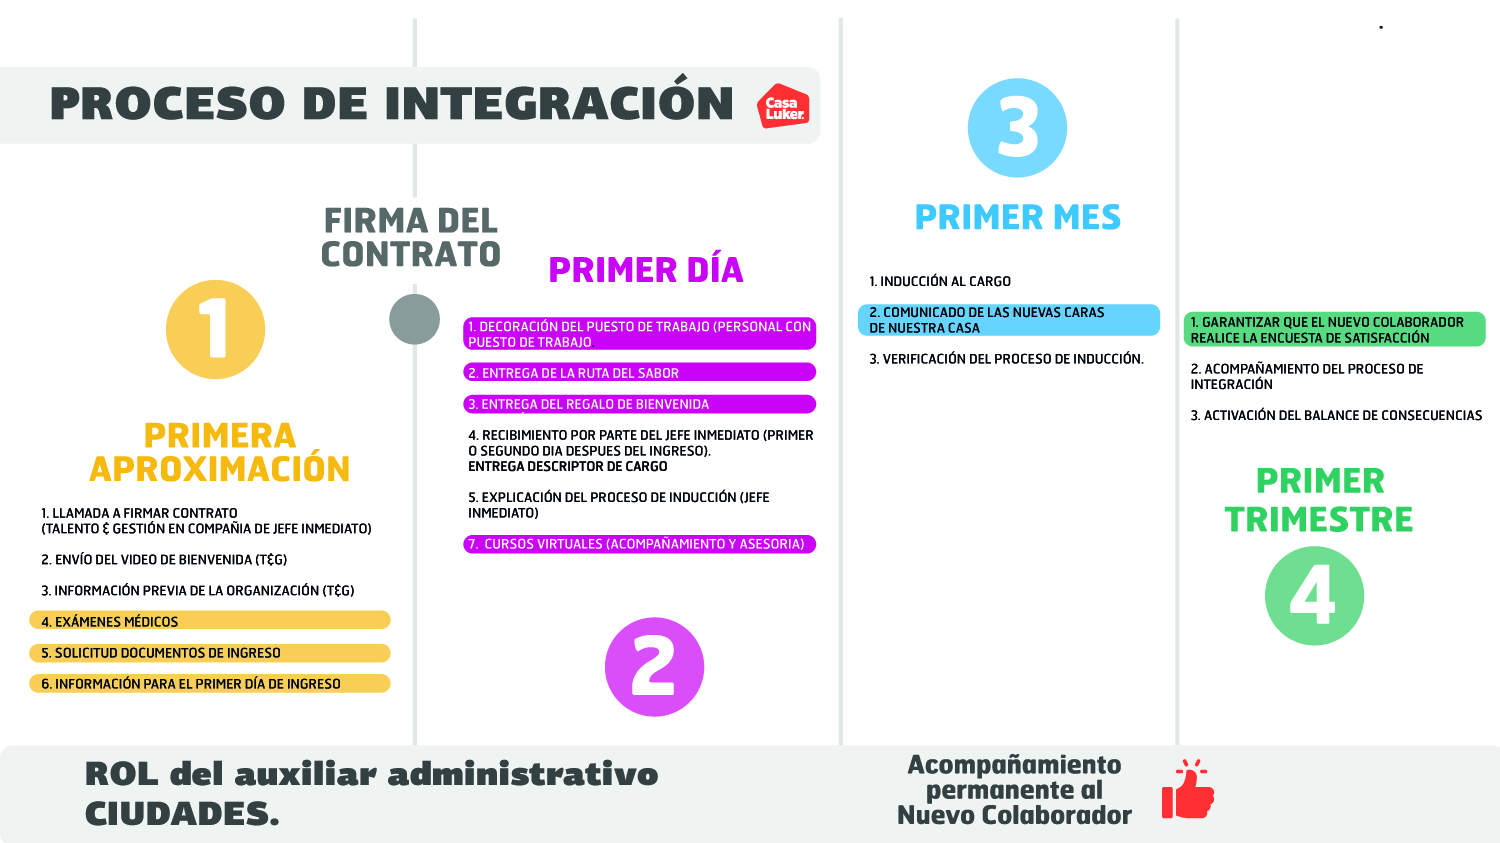
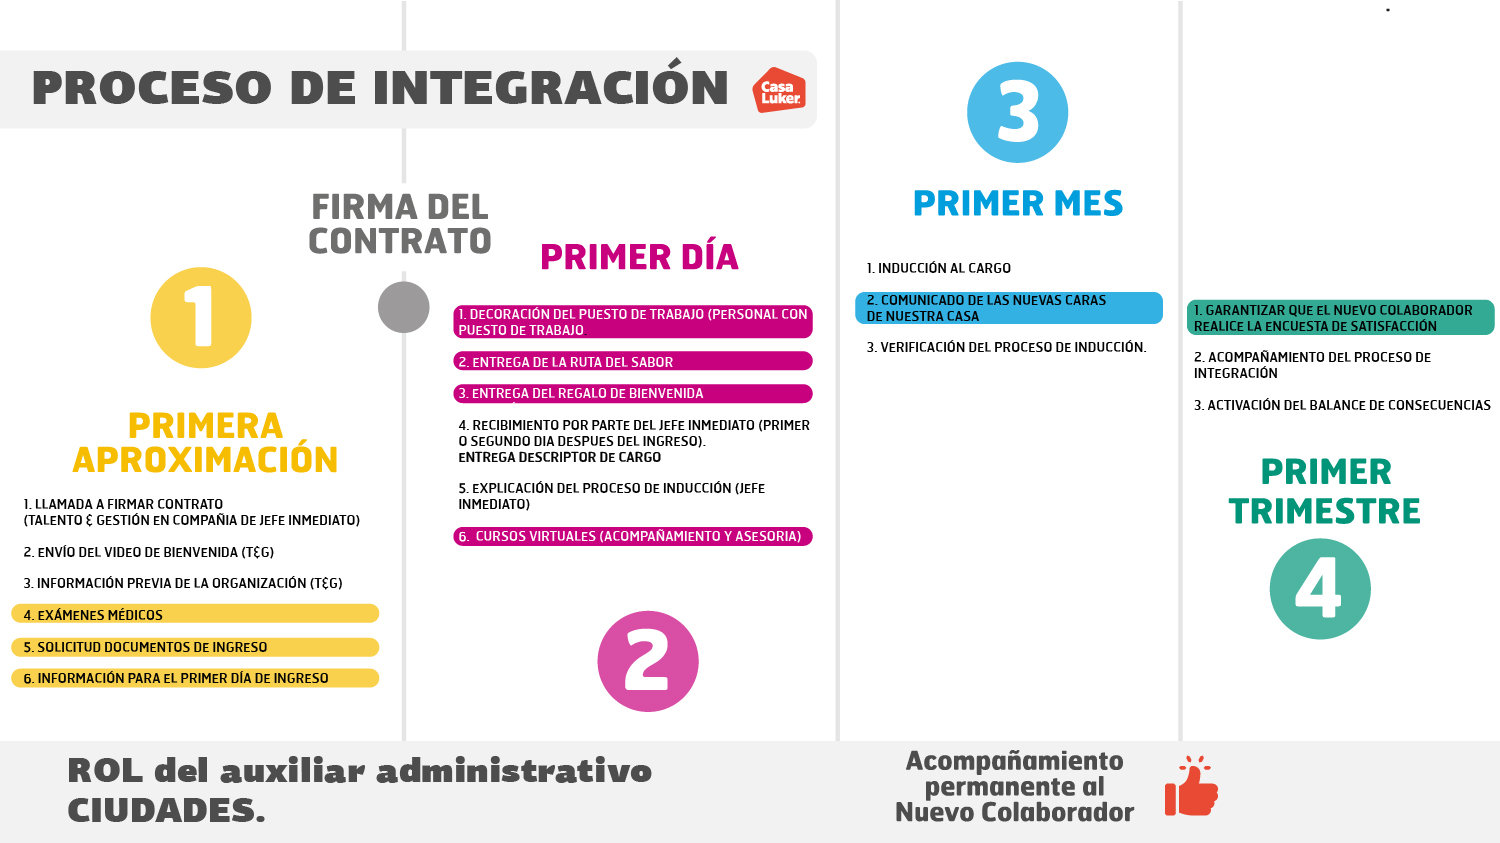
Cambia ubicacion de @templates y añade caja herramientas de @talento - Ubica los @templates en la carpeta shared. Esto para acceder a ellos desde el modulo home y no solo del modulo processes - Añade caja de herramientas faltantes en el componente @talento del modulo home - Agrega imagenes adicional

diff --git a/src/main/webapp/app/home/talento/talento.component.ts b/src/main/webapp/app/home/talento/talento.component.ts
@@ -8,6 +8,31 @@ import { Location } from '@angular/common';
 })
 export class TalentoComponent implements OnInit, AfterViewInit, OnDestroy {
   public processClasses: any;
+  elementsCajaHerramientas = {
+    first: [ // Elementos de la primera columna
+      {
+        subtitle: '',
+        items: [
+          { title: 'Grupo 1 Módulo 2 Definiendo el norte', url: 'https://www.w3.org/WAI/ER/tests/xhtml/testfiles/resources/pdf/dummy.pdf' },
+          { title: 'Grupo 1 Módulo 3 Conformando al mejor equipo', url: 'https://www.w3.org/WAI/ER/tests/xhtml/testfiles/resources/pdf/dummy.pdf' },
+          { title: 'Grupo 1 Módulo 4 Logrando los mejores resultados', url: 'https://www.w3.org/WAI/ER/tests/xhtml/testfiles/resources/pdf/dummy.pdf' },
+          { title: 'Grupo 1 Módulo 5 Comprometiendo e integrando a nuestros equipos', url: 'https://www.w3.org/WAI/ER/tests/xhtml/testfiles/resources/pdf/dummy.pdf' },
+          { title: 'Grupo 1 Módulo 6 Gestionar el desempeño y desarrollar a nuestro equipo', url: 'https://www.w3.org/WAI/ER/tests/xhtml/testfiles/resources/pdf/dummy.pdf' },
+          { title: 'Grupo 1 Módulo 7 Maestros que comprometen a sus equipos', url: 'https://www.w3.org/WAI/ER/tests/xhtml/testfiles/resources/pdf/dummy.pdf' }
+        ]
+      }
+    ],
+    second: [
+      {
+        subtitle: '',
+        items: [
+          { title: 'Grupo 2 Módulo 2 Conformando e integrando al mejor equipo', url: 'https://www.w3.org/WAI/ER/tests/xhtml/testfiles/resources/pdf/dummy.pdf' },
+          { title: 'Grupo 2 Módulo 3 Logrando los mejores resultados', url: 'https://www.w3.org/WAI/ER/tests/xhtml/testfiles/resources/pdf/dummy.pdf' },
+          { title: 'Grupo 2 Módulo 4 Maestros que comprometen a sus equipos.', url: 'https://www.w3.org/WAI/ER/tests/xhtml/testfiles/resources/pdf/dummy.pdf' }
+        ]
+      }
+    ]
+  };
 
   constructor(private elementRef: ElementRef,
     private renderer2: Renderer2, private location: Location) { }
@@ -37,7 +62,7 @@ export class TalentoComponent implements OnInit, AfterViewInit, OnDestroy {
   }
 
   /**
-   * Método que válidaría si el usuario puede
+   * Método que validaría si el usuario puede
    * o no ver el botón de caja de herramientas
    */
   canShowCajaHerramientas() {

diff --git a/src/main/webapp/app/processes/processes.module.ts b/src/main/webapp/app/processes/processes.module.ts
@@ -5,8 +5,6 @@ import { PROCESSES_ROUTE } from './processes.route';
 
 import { LukerSharedModule } from 'app/shared/shared.module';
 import { ProcessesComponent } from './processes.component';
-import { TplDefinicionesComponent } from './templates/tpl-definiciones/tpl-definiciones.component';
-import { TplCajaHerramientasComponent } from './templates/tpl-caja-herramientas/tpl-caja-herramientas.component';
 import { VinculacionIntegracionComponent } from './vinculacion-integracion/vinculacion-integracion.component';
 import { VinculacionComponent } from './vinculacion-integracion/vinculacion/vinculacion.component';
 import { IntegracionComponent } from './vinculacion-integracion/integracion/integracion.component';
@@ -23,14 +21,11 @@ import { CompromisoReconoComponent } from './compromiso-recono/compromiso-recono
 import { DefCompromisoReconoComponent } from './compromiso-recono/definiciones/def-compromiso-recono.component';
 import { CierreExitosoComponent } from './cierre-exitoso/cierre-exitoso.component';
 import { DefCierreExitosoComponent } from './cierre-exitoso/definiciones/def-cierre-exitoso.component';
-import { TplContactoComponent } from './templates/tpl-contacto/tpl-contacto.component';
 
 @NgModule({
     imports: [LukerSharedModule, RouterModule.forChild([PROCESSES_ROUTE])],
     declarations: [
         ProcessesComponent,
-        TplDefinicionesComponent,
-        TplCajaHerramientasComponent,
         VinculacionIntegracionComponent,
         VinculacionComponent,
         IntegracionComponent,
@@ -46,8 +41,7 @@ import { TplContactoComponent } from './templates/tpl-contacto/tpl-contacto.comp
         CompromisoReconoComponent,
         DefCompromisoReconoComponent,
         CierreExitosoComponent,
-        DefCierreExitosoComponent,
-        TplContactoComponent
+        DefCierreExitosoComponent
     ]
 })
 export class LukerProcessesModule { }

diff --git a/src/main/webapp/app/shared/shared.module.ts b/src/main/webapp/app/shared/shared.module.ts
@@ -5,13 +5,33 @@ import { NgbDateMomentAdapter } from './util/datepicker-adapter';
 import { LukerSharedLibsModule, LukerSharedCommonModule, JhiLoginModalComponent, HasAnyAuthorityDirective } from './';
 import { MapLukerComponent } from './map-luker/map-luker.component';
 import { UniversidadLogoComponent } from './universidad-logo/universidad-logo.component';
+import { TplDefinicionesComponent } from './templates/tpl-definiciones/tpl-definiciones.component';
+import { TplCajaHerramientasComponent } from './templates/tpl-caja-herramientas/tpl-caja-herramientas.component';
+import { TplContactoComponent } from './templates/tpl-contacto/tpl-contacto.component';
 
 @NgModule({
     imports: [LukerSharedLibsModule, LukerSharedCommonModule],
-    declarations: [JhiLoginModalComponent, HasAnyAuthorityDirective, MapLukerComponent, UniversidadLogoComponent],
+    declarations: [
+        JhiLoginModalComponent,
+        HasAnyAuthorityDirective,
+        MapLukerComponent,
+        UniversidadLogoComponent,
+        TplDefinicionesComponent,
+        TplCajaHerramientasComponent,
+        TplContactoComponent
+    ],
     providers: [{ provide: NgbDateAdapter, useClass: NgbDateMomentAdapter }],
     entryComponents: [JhiLoginModalComponent],
-    exports: [LukerSharedCommonModule, JhiLoginModalComponent, HasAnyAuthorityDirective, MapLukerComponent, UniversidadLogoComponent],
+    exports: [
+        LukerSharedCommonModule,
+        JhiLoginModalComponent,
+        HasAnyAuthorityDirective,
+        MapLukerComponent,
+        UniversidadLogoComponent,
+        TplDefinicionesComponent,
+        TplCajaHerramientasComponent,
+        TplContactoComponent
+    ],
     schemas: [CUSTOM_ELEMENTS_SCHEMA]
 })
-export class LukerSharedModule {}
+export class LukerSharedModule { }

diff --git a/src/main/webapp/app/shared/templates/tpl-caja-herramientas/tpl-caja-herramientas.component.ts b/src/main/webapp/app/shared/templates/tpl-caja-herramientas/tpl-caja-herramientas.component.ts
@@ -11,7 +11,7 @@ export class TplCajaHerramientasComponent implements OnInit {
 
   @ViewChild('modalTools') modalCajaHerramientas: TemplateRef<any>;
   @Input() elementsCajaHerramientas;
-  @Input() processNumber = 1;
+  @Input() processNumber = 0;
   @Input() titleFirstColumn = 'Placeholder';
   @Input() titleSecondColumn = 'Placeholder';
   @Input() titleProcess = '';
@@ -29,6 +29,14 @@ export class TplCajaHerramientasComponent implements OnInit {
     // En un objeto, asigna las clases que usará,
     // de acuerdo al proceso del mapa de gestión en el que se encuentre
     switch (this.processNumber) {
+      // Colores por defecto Caso 0
+      case 0:
+        this.processClasses = {
+          'bg': 'bg-brand',
+          'color': 'text-brand',
+          'icon': 'primary'
+        };
+        break;
       case 1:
         this.processClasses = {
           'bg': 'bg-1',
@@ -82,12 +90,12 @@ export class TplCajaHerramientasComponent implements OnInit {
 
   open() {
     if (this.elementsCajaHerramientas.second) {
-      this.modalReference =  this.modalService.open(this.modalCajaHerramientas, { windowClass: 'toolbox' });
+      this.modalReference = this.modalService.open(this.modalCajaHerramientas, { windowClass: 'toolbox' });
     } else {
-      this.modalReference =  this.modalService.open(this.modalCajaHerramientas, { windowClass: 'toolbox-sm' });
+      this.modalReference = this.modalService.open(this.modalCajaHerramientas, { windowClass: 'toolbox-sm' });
     }
-     // Closes modal when back button is clicked
-    this.location.onPopState( () => this.modalReference.close());
+    // Closes modal when back button is clicked
+    this.location.onPopState(() => this.modalReference.close());
   }
 
 }

diff --git a/src/main/webapp/app/processes/vinculacion-integracion/integracion/integracion.component.ts b/src/main/webapp/app/processes/vinculacion-integracion/integracion/integracion.component.ts
@@ -22,9 +22,9 @@ export class IntegracionComponent implements OnInit {
         'isVideo': true
       },
       { 'text': '3. Información previa de la organización (t&g)', 'isHighlighted': true, 'src': '/content/images/integracion/info-organizacion.jpg' },
-      { 'text': '4. Solicitud documentos de ingreso' },
-      { 'text': '5. Información para el primer día de ingreso', 'isHighlighted': true, 'src': '/content/images/integracion/info-primerdia.jpg' },
-      { 'text': '6. Exámenes médicos' }
+      { 'text': '4. Exámenes médicos' },
+      { 'text': '5. Solicitud documentos de ingreso' },
+      { 'text': '6. Información para el primer día de ingreso', 'isHighlighted': true, 'src': '/content/images/integracion/info-primerdia.jpg' },
     ],
     // Primer día
     second: [
@@ -39,7 +39,7 @@ export class IntegracionComponent implements OnInit {
     // Primer mes
     third: [
       { 'text': '1. Inducción al cargo.', 'isHighlighted': true },
-      { 'text': '2. Comunicado de las nuevas caras de nuestra casa.', 'isHighlighted': true },
+      { 'text': '2. Comunicado de las nuevas caras de nuestra casa.', 'isHighlighted': true, 'src': '/content/images/integracion/nuevas-caras.jpg' },
       { 'text': '3. Verificación del proceso de inducción.', 'isHighlighted': true, 'src': '/content/images/integracion/verificacion.jpg'}
     ],
     // Primer trimestre

diff --git a/src/main/webapp/app/home/talento/talento.component.html b/src/main/webapp/app/home/talento/talento.component.html
@@ -48,8 +48,7 @@
         <ul class="list text-justify">
           <ng-container *ngTemplateOutlet="defaultListProcesos"></ng-container>
         </ul>
-        <!-- <a *ngIf="canShowCajaHerramientas()" class="btn btn-brand" (click)="cajaHerramientasModal.open()"> -->
-        <a *ngIf="canShowCajaHerramientas()" class="btn btn-brand">
+        <a *ngIf="canShowCajaHerramientas()" class="btn btn-brand" (click)="cajaHerramientasModal.open()">
           <span class="font-weight-bold">Caja de herramientas</span>
           <span class="btn-badge"><img src="/content/icons/tool.svg" alt="" class="icon primary"></span>
         </a>
@@ -75,7 +74,7 @@
 
 
 <!-- Modal Caja de Herramientas -->
-<!-- <jhi-tpl-caja-herramientas #cajaHerramientasModal [processNumber]="4"
-    [elementsCajaHerramientas]="elementsCajaHerramientas" [titleFirstColumn]="'Formatos\npara descargar'"
-    [titleSecondColumn]="'Consulta\naqui'" [titleProcess]="'Desempeño y desarrollo'" [positionTitleProcess]="'center'">
-</jhi-tpl-caja-herramientas> -->
+<jhi-tpl-caja-herramientas #cajaHerramientasModal
+    [elementsCajaHerramientas]="elementsCajaHerramientas" [titleFirstColumn]="''"
+    [titleSecondColumn]="''">
+</jhi-tpl-caja-herramientas>

diff --git a/src/main/webapp/app/processes/vinculacion-integracion/integracion/integracion.component.html b/src/main/webapp/app/processes/vinculacion-integracion/integracion/integracion.component.html
@@ -21,7 +21,7 @@
             </ul>
         </div>
         <div id="step-two" class="col-md-6 col-lg-3 item">
-            <img class="img-msg" src="/content/images/int-msg.png" alt="">
+            <img class="img-msg" src="/content/images/integracion/int-msg.png" alt="">
             <ul class="list">
                 <li *ngFor="let item of steps.second" [ngClass]="{'highlight': item.isHighlighted}">{{item.text}}
                     <div class="media right" *ngIf="item.isHighlighted">
@@ -85,7 +85,7 @@
                     Ciudades</button>
             </div>
         </div>
-        <img class="img-uni" src="/content/images/int-uni.png" alt="" (click)="openUniversity()">
+        <img class="img-uni" src="/content/images/integracion/int-uni.png" alt="" (click)="openUniversity()">
     </div>
 </div>
 
@@ -97,6 +97,7 @@
         </div>
     </div>
     <div class="modal-body">
+        <h3 class="title-modal">Ten en cuenta que las actividades subrayadas hacen parte de tus responsabilidades</h3>
         <img class="img-auto" src="{{imgRol}}" alt="Definición estratégica">
     </div>
 </ng-template>

diff --git a/src/main/webapp/app/home/home.component.ts b/src/main/webapp/app/home/home.component.ts
@@ -17,10 +17,10 @@ export class HomeComponent implements OnInit, AfterViewInit, OnDestroy {
     public carouselImages = [
         // Se añade la fecha actual "getTime()" a la url de la imagen, para no guardarla en cache.
         // Esto debido a la solicitud de obtener imagenes desde un repositorio independiente.
-        'https://ylrodriguez.000webhostapp.com/img/main.jpg?d=' + new Date().getTime(),
-        'https://ylrodriguez.000webhostapp.com/img/imagen-1.jpg?d=' + new Date().getTime(),
-        'https://ylrodriguez.000webhostapp.com/img/imagen-2.jpg?d=' + new Date().getTime(),
-        'https://ylrodriguez.000webhostapp.com/img/imagen-3.jpg?d=' + new Date().getTime(),
+        'https://lukerimages.000webhostapp.com/img/main.jpg?d=' + new Date().getTime(),
+        'https://lukerimages.000webhostapp.com/img/imagen-1.jpg?d=' + new Date().getTime(),
+        'https://lukerimages.000webhostapp.com/img/imagen-2.jpg?d=' + new Date().getTime(),
+        'https://lukerimages.000webhostapp.com/img/imagen-3.jpg?d=' + new Date().getTime(),
     ];
 
     constructor(

diff --git a/src/main/webapp/app/processes/alineacion-estrategica/alineacion-estrategica.component.ts b/src/main/webapp/app/processes/alineacion-estrategica/alineacion-estrategica.component.ts
@@ -1,5 +1,4 @@
 import { Component, OnInit, ViewChild } from '@angular/core';
-import { TplCajaHerramientasComponent } from '../templates/tpl-caja-herramientas/tpl-caja-herramientas.component';
 import { NgbModal } from '@ng-bootstrap/ng-bootstrap';
 import { PlatformLocation } from '@angular/common';
 
@@ -50,8 +49,6 @@ export class AlineacionEstrategicaComponent implements OnInit {
     ]
   };
   modalReference: any;
-
-  @ViewChild(TplCajaHerramientasComponent) cajaHerramientas: TplCajaHerramientasComponent;
 
   constructor(private modalService: NgbModal, private location: PlatformLocation) { }
 

diff --git a/src/main/webapp/app/processes/processes.route.ts b/src/main/webapp/app/processes/processes.route.ts
@@ -7,7 +7,7 @@ import { COMPROMISO_RECONO_ROUTE } from './compromiso-recono/compromiso-recono.r
 import { CIERRE_EXITOSO_ROUTE } from './cierre-exitoso/cierre-exitoso.route';
 import { UNIVERSIDAD_LUKER_ROUTE } from './universidad-luker/universidad-luker.route';
 import { ProcessesComponent } from './processes.component';
-import { TplContactoComponent } from './templates/tpl-contacto/tpl-contacto.component';
+import { TplContactoComponent } from '../shared/templates/tpl-contacto/tpl-contacto.component';
 
 export const PROCESSES_ROUTE: Route = {
   path: 'proceso',

diff --git a/src/main/webapp/app/processes/vinculacion-integracion/vinculacion-integracion.component.ts b/src/main/webapp/app/processes/vinculacion-integracion/vinculacion-integracion.component.ts
@@ -1,5 +1,4 @@
 import { Component, OnInit, OnDestroy, ViewChild } from '@angular/core';
-import { TplCajaHerramientasComponent } from '../templates/tpl-caja-herramientas/tpl-caja-herramientas.component';
 
 @Component({
   selector: 'jhi-vinculacion-integracion',
@@ -34,8 +33,6 @@ export class VinculacionIntegracionComponent implements OnInit, OnDestroy {
       }
     ]
   };
-
-  @ViewChild(TplCajaHerramientasComponent) cajaHerramientas: TplCajaHerramientasComponent;
 
   constructor() { }
 

diff --git a/src/main/webapp/app/processes/vinculacion-integracion/integracion/integracion.component.scss b/src/main/webapp/app/processes/vinculacion-integracion/integracion/integracion.component.scss
@@ -235,6 +235,11 @@
   }
 }
 
+.img-auto {
+  height: auto;
+  width: 100%;
+}
+
 // Estilos del modal roles
 .modal-header {
   padding: 0;
@@ -258,7 +263,18 @@
   }
 }
 
-.img-auto {
-  height: auto;
-  width: 100%;
+.modal-body {
+  .title-modal {
+    text-transform: uppercase;
+    font-weight: 900;
+    text-align: center;
+    margin-bottom: 0.5rem;
+    font-size: 1.2rem;
+    color: #4d4d4d;
+  }
+  .img-auto {
+    width: 95%;
+    margin: 0 auto;
+    display: block;
+  }
 }
